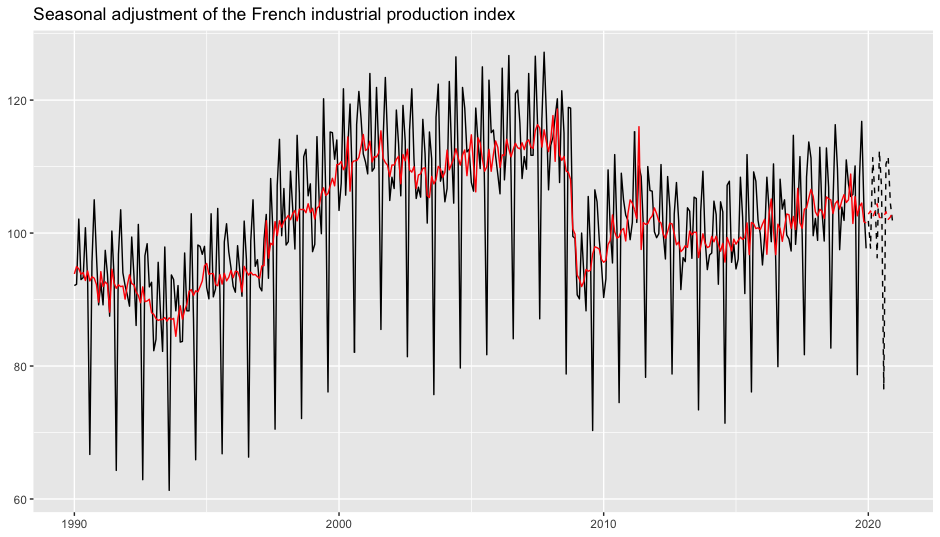
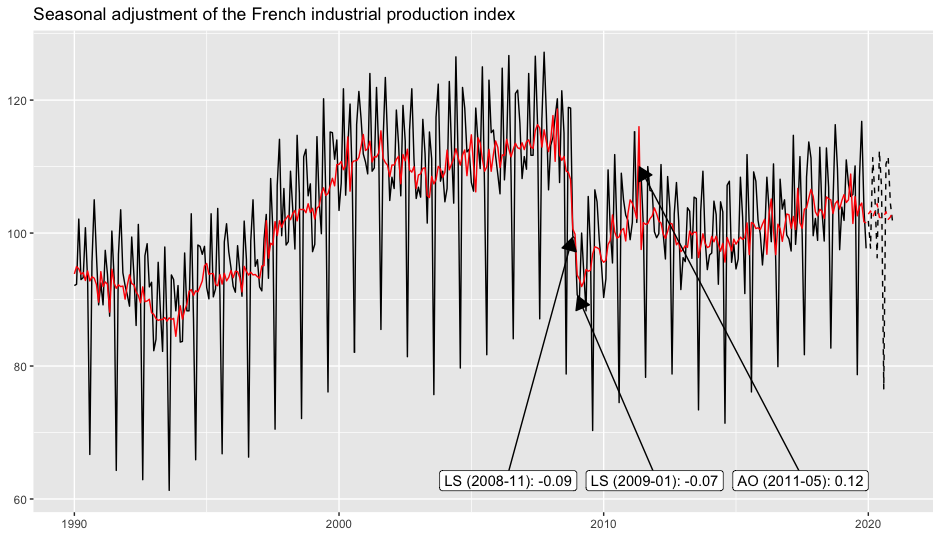
doc update

diff --git a/README.md b/README.md
@@ -100,8 +100,6 @@ p_sa +
                  arrow = arrow(length = unit(0.03, "npc"),
                                type = "closed", ends = "last"),
                  digits = 2)
-#> Warning: Removed 3 rows containing missing values or values outside the scale range
-#> (`geom_label_repel()`).
 ```
 
 <img src="man/figures/README-out-1.png" alt="" width="100%" style="display: block; margin: auto;" />

diff --git a/NEWS.md b/NEWS.md
@@ -1,2 +1,3 @@
 # ggdemetra3 0.0.3
 
+* Initial CRAN submission.
